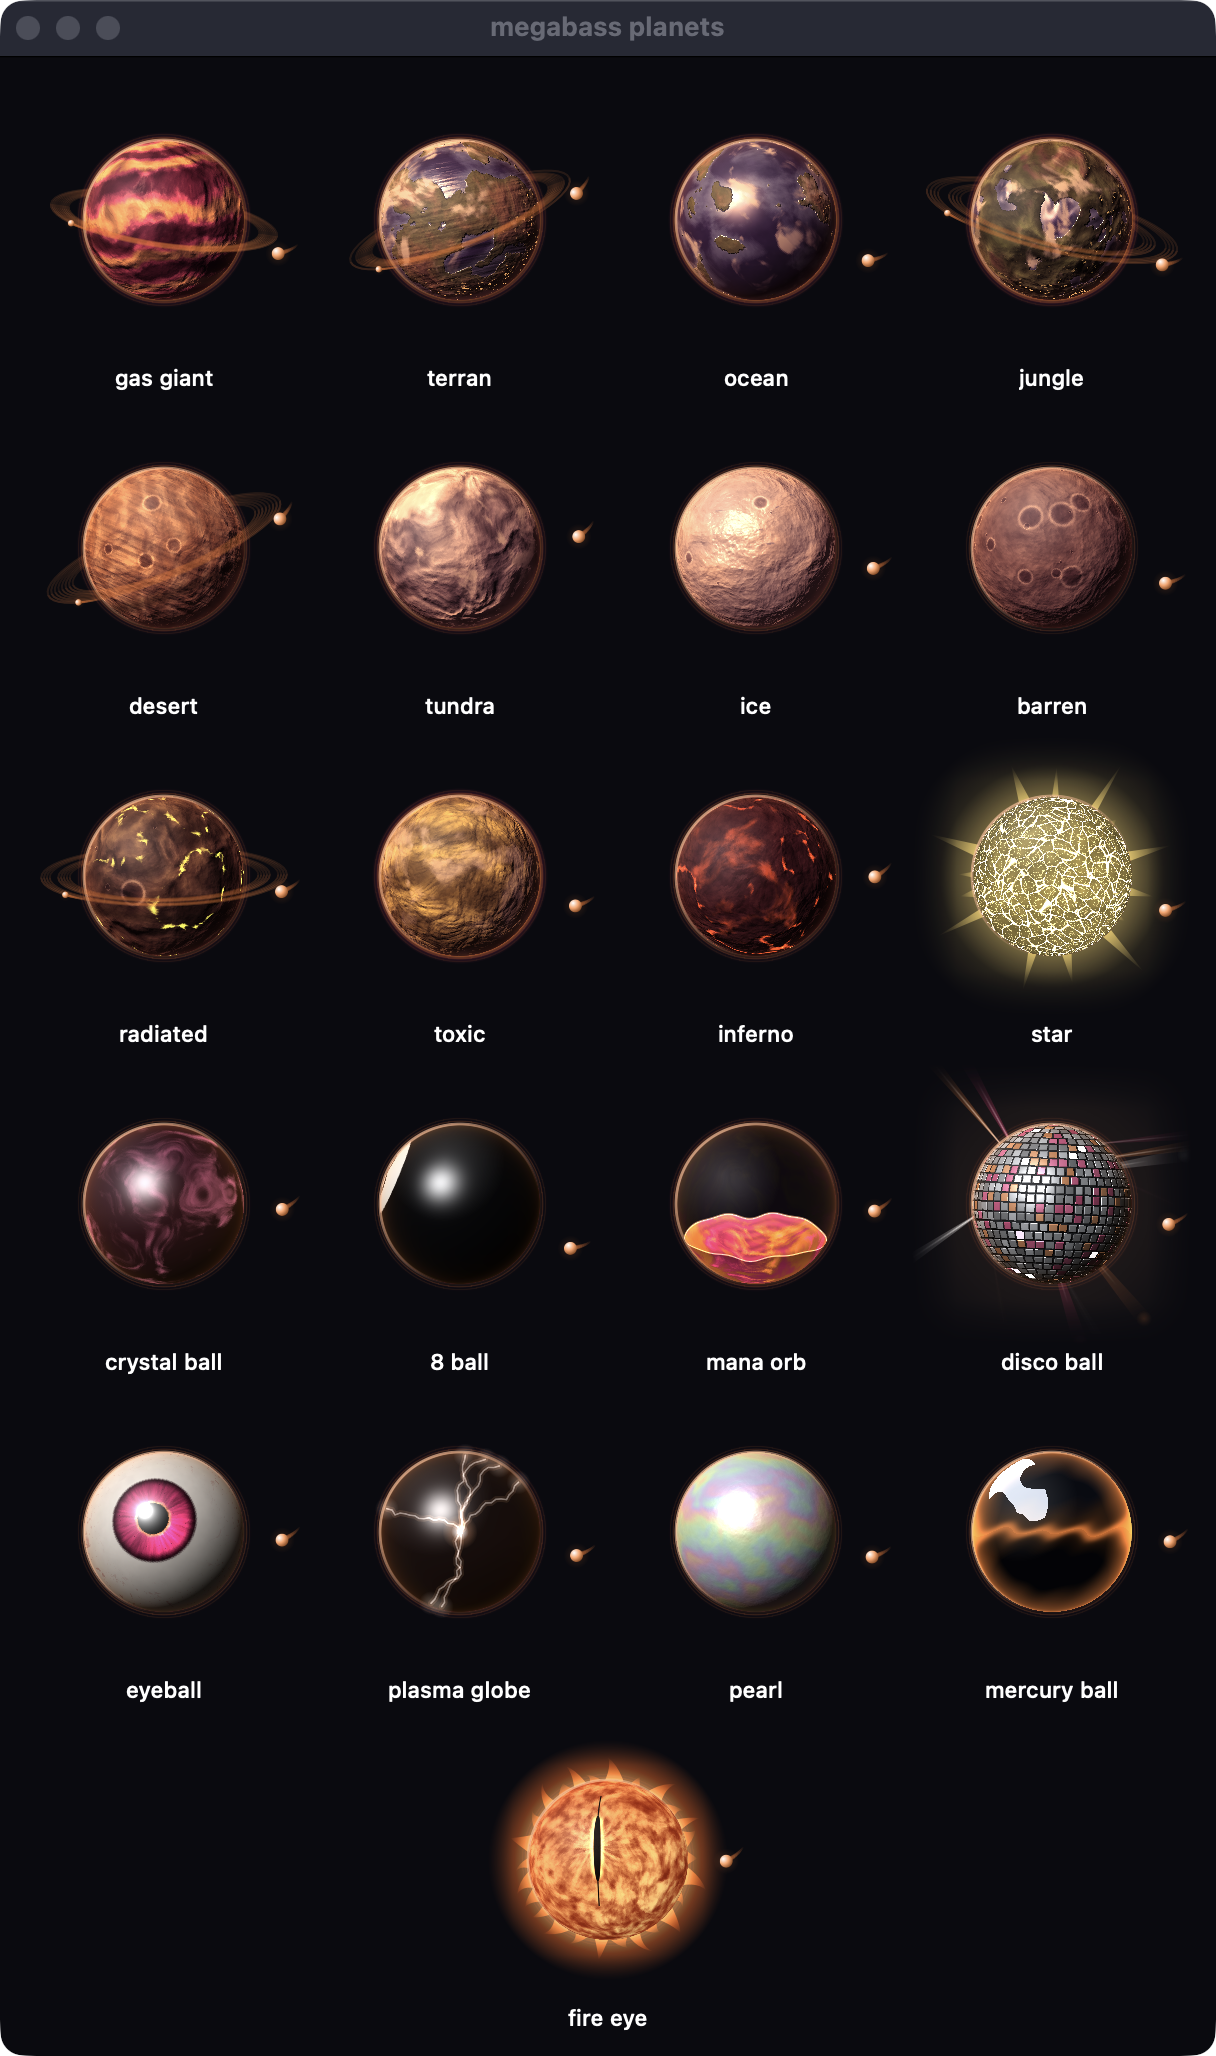
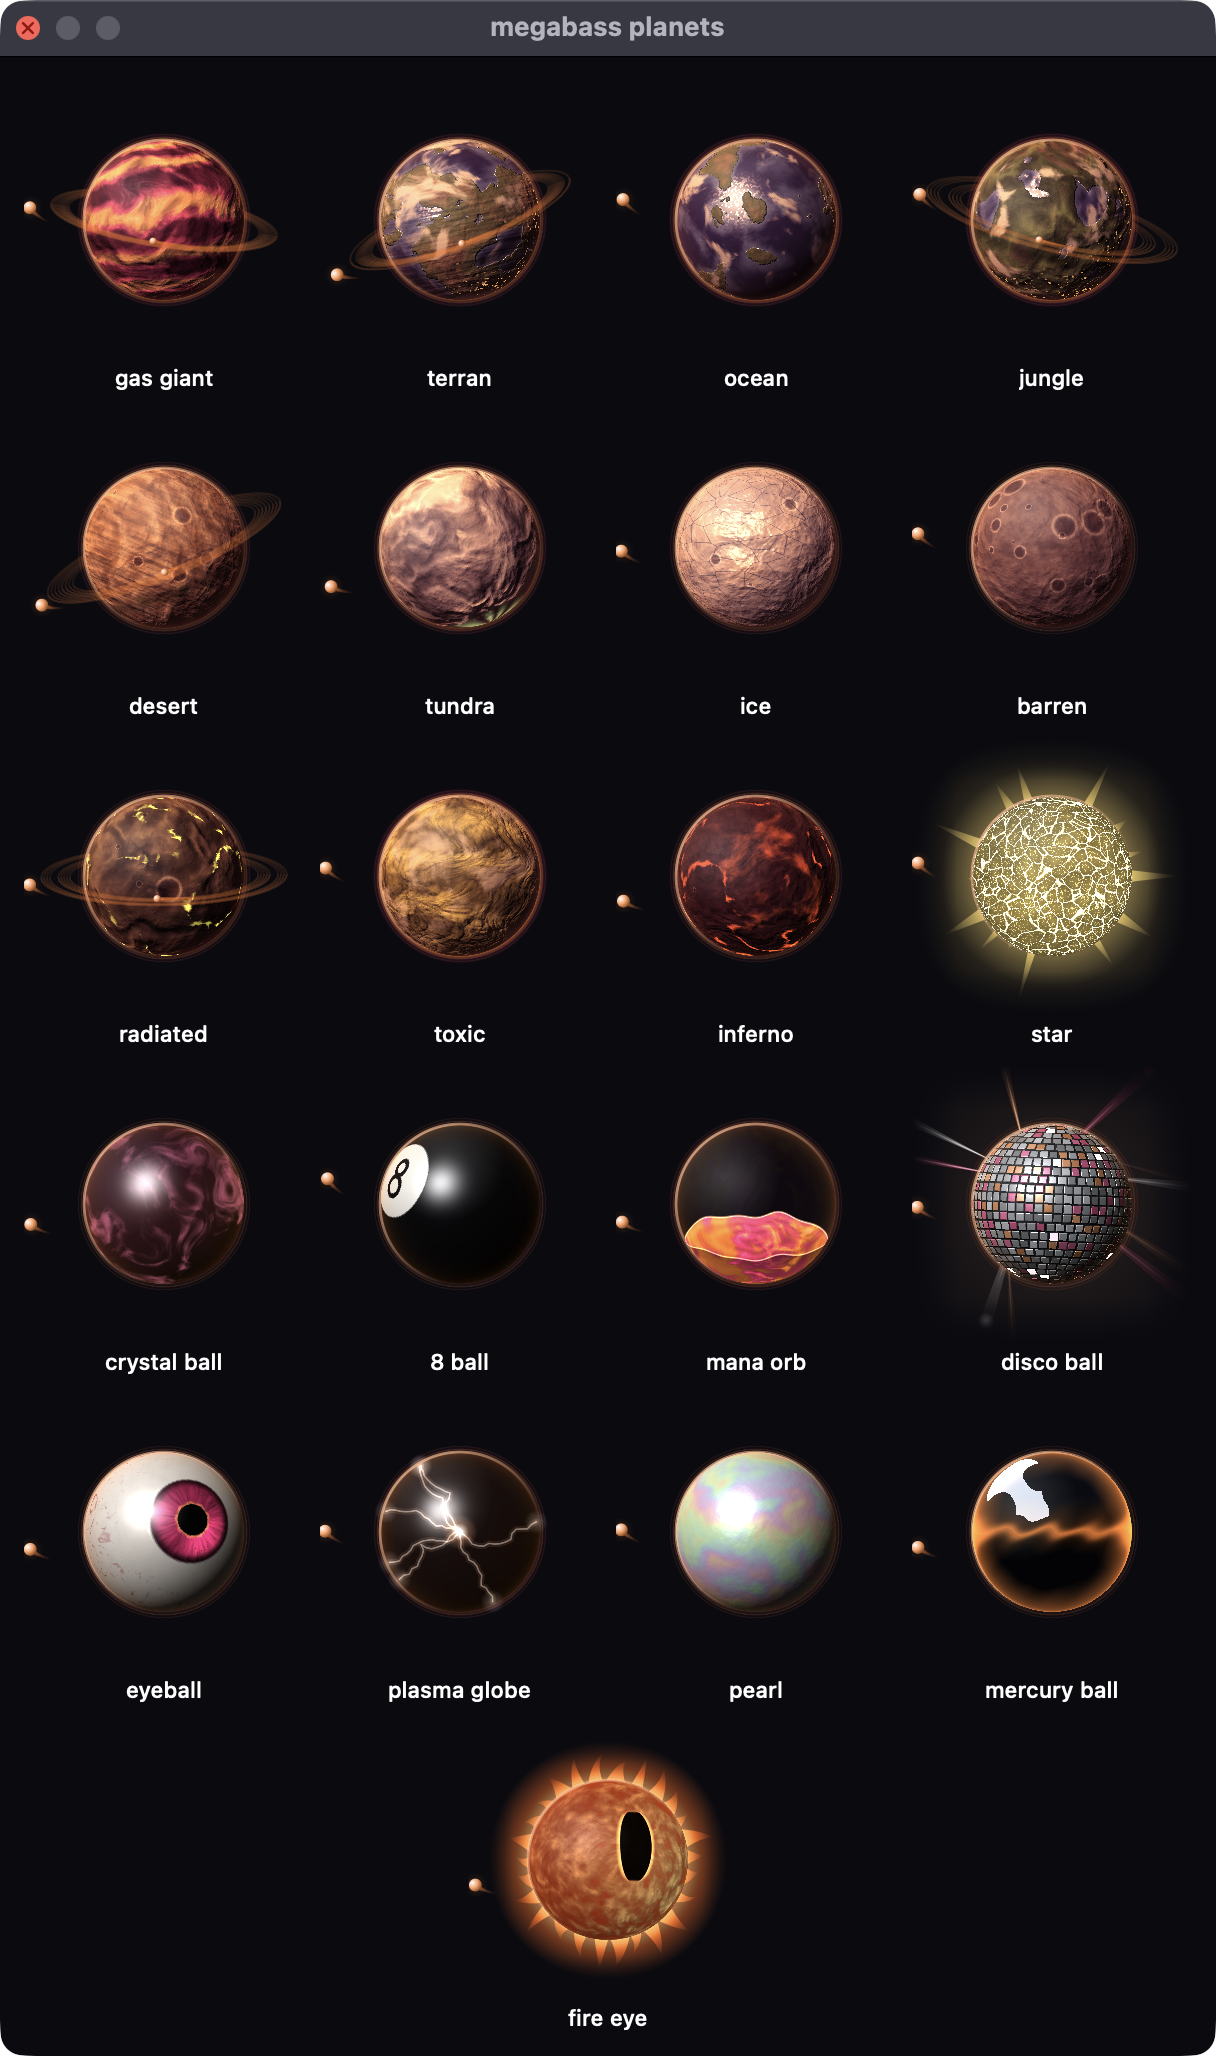
Living planets: animated layers where they fit the world
- Gas giants and toxic worlds: bands drift at their own speeds by latitude,
  swaying within a few degrees so they never shear apart.
- Ice: floes drift on dark water (a wrapping cell network); the cracks
  open wider when the music is loud.
- Inferno: lava waves run along the channels and surge on kicks.
- Stars: seams boil and breathe with the bass.
- Radiated: veins flicker in patches.
- Tundra: aurora curtains over the poles, strongest on the night side.
- Ocean, terran, jungle: sunlight glints twinkle on the water.
- Jungle: lightning flickers inside the clouds on kicks.
Cheap per pixel (integer hashes, a sine table, squared-distance cells):
the ice planet draws in ~2.9 ms against 3.25 ms before the layers.

diff --git a/Sources/MegaBass/PlanetTexture.swift b/Sources/MegaBass/PlanetTexture.swift
@@ -415,6 +415,8 @@ final class PlanetTextures {
         return tex
     }
 
+    static let sinTable: [Float] = (0..<1024).map { sin(Float($0) / 1024 * 2 * .pi) }
+
     /// Textures kept (the app shows one or two planets; the gallery shows them all).
     var capacity = 6
 
@@ -466,10 +468,49 @@ final class PlanetTextures {
         // On: the icon emits light in the palette's brightest colour (unshaded), with a halo.
         let iconLight = Self.rgb(iconColor)
         let iconBase: SIMD3<Float> = on ? iconLight + (SIMD3<Float>(repeating: 1) - iconLight) * 0.2 : SIMD3(0.62, 0.62, 0.64)
+        // Living planets: animated layers where they fit the world (wobble carries the music's pulse).
+        let kind = tex.kind
+        let flows = kind == .gasGiant || kind == .toxic, floes = kind == .ice, lava = kind == .inferno
+        let boils = star, flickers = kind == .radiated, aurora = kind == .tundra
+        let shimmer = kind == .ocean || kind == .terran || kind == .jungle, storms = kind == .jungle
+        let auroraTint = SIMD3<Float>(0.25, 1, 0.6) * 0.6 + rimTint * 0.4
+        /// sin() by table (1024 steps): the animated layers call it once per pixel per frame.
+        let sinTable = Self.sinTable
+        func fsin(_ x: Float) -> Float { sinTable[Int(x * 162.974_66) & 1023] }
+        /// Cheap integer hash to 0...1 (no trig in the hot loop).
+        func hash01(_ a: Int32, _ b: Int32, _ s: UInt32) -> Float {
+            var h = UInt32(bitPattern: a) &* 0x9E37_79B1 ^ UInt32(bitPattern: b) &* 0x85EB_CA77 ^ s
+            h ^= h >> 15; h = h &* 0x2C1B_3C6D; h ^= h >> 12; h = h &* 0x297A_2D39; h ^= h >> 15
+            return Float(h & 0xFFFF) / 65535
+        }
+        /// Distance to the nearest and second-nearest cell point; cells wrap every 16 along x.
+        /// Squared distances in the loop, one hash per cell (two coordinates from its bits).
+        func cells(_ x: Float, _ y: Float) -> (Float, Float) {
+            let ix = Int32(floor(x)), iy = Int32(floor(y))
+            var f1: Float = 81, f2: Float = 81
+            for dy in Int32(-1)...1 {
+                for dx in Int32(-1)...1 {
+                    let cx = ix + dx, cy = iy + dy
+                    var h = UInt32(bitPattern: cx & 15) &* 0x9E37_79B1 ^ UInt32(bitPattern: cy) &* 0x85EB_CA77
+                    h ^= h >> 15; h = h &* 0x2C1B_3C6D; h ^= h >> 13
+                    let px = Float(cx) + Float(h & 0xFFFF) / 65535 - x, py = Float(cy) + Float(h >> 16) / 65535 - y
+                    let d = px * px + py * py
+                    if d < f1 { f2 = f1; f1 = d } else if d < f2 { f2 = d }
+                }
+            }
+            return (f1.squareRoot(), f2.squareRoot())
+        }
         for i in 0..<(n * n) {
             guard inside[i] else { pixels[i] = 0; continue }
             let u0 = lonBase[i]
             var u = Int(u0 + shift) % W; if u < 0 { u += W }
+            // Gas bands drift at their own speeds by latitude (as real gas giants do), swaying back and
+            // forth within a few degrees so they never shear apart.
+            if flows {
+                let la = latF[i]
+                let off = fsin(la * 5.3) * 25 * fsin(tt * 0.15) + fsin(la * 11 + 1) * 8 * fsin(tt * 0.23 + 2)
+                u = ((u + Int(off)) % W + W) % W
+            }
             var uc = Int(u0 + cloudShift) % W; if uc < 0 { uc += W }
             let v = Int(latIdx[i])
             let row = v * W
@@ -479,6 +520,13 @@ final class PlanetTextures {
                 let b = Int(blurPx)
                 c = (c + tex.surface[row + (u + b / 2) % W] + tex.surface[row + (u - b / 2 + W) % W]
                        + tex.surface[row + (u + b) % W]) * 0.25
+            }
+            // Ice: floes drifting on dark water; the cracks between them open wider when the music is loud.
+            if floes {
+                let lonT = (u0 + shift) / Float(W) * 16 + tt * 0.06
+                let (f1, f2) = cells(lonT, latF[i] * 5 + sin(tt * 0.3) * 0.08)
+                let crack = smooth(0, 0.05 + 0.08 * wobble, f2 - f1)
+                c = c * (0.55 + 0.45 * crack) + SIMD3<Float>(0.04, 0.1, 0.2) * (1 - crack)
             }
             let cl = tex.clouds[row + uc]
             c = c + (SIMD3<Float>(repeating: 0.97) - c) * cl
@@ -508,7 +556,11 @@ final class PlanetTextures {
                 }
                 // Specular: glossy water and ice catch the sun; rock stays matte.
                 let gloss = tex.spec[row + u] * (1 - cl)
-                if gloss > 0.01 { out += SIMD3<Float>(repeating: pow(max(0, simd_dot(bumped, half)), 36) * 0.9 * gloss * sun) }
+                if gloss > 0.01 {
+                    // Water glints shimmer as small waves catch the sun.
+                    let twinkle: Float = shimmer && gloss > 0.5 ? (hash01(Int32(u / 3), Int32(v / 3), UInt32(tt * 8)) > 0.7 ? 1.7 : 0.75) : 1
+                    out += SIMD3<Float>(repeating: pow(max(0, simd_dot(bumped, half)), 36) * 0.9 * gloss * sun * twinkle)
+                }
                 // A wet eye: a crisp glint on the smooth cornea.
                 if eye { out += SIMD3<Float>(repeating: pow(max(0, simd_dot(nrm, half)), 320) * 1.3 * sun) }
                 // Emissive: lava and radiation glow everywhere; city lights only at night.
@@ -528,8 +580,33 @@ final class PlanetTextures {
                 let glum = simd_dot(emitted, SIMD3<Float>(0.299, 0.587, 0.114))
                 emitted = emitted + (hi * glum * 1.2 - emitted) * 0.3
             }
+            // Lava waves run along the channels and surge on kicks; a star's seams boil and breathe with the
+            // bass; radiation veins flicker in patches.
+            if lava {
+                let phase: Float = tt * 2.2 + Float(u) * 0.05 + Float(v) * 0.08
+                let wave: Float = 0.5 + 0.5 * fsin(phase)
+                emitted *= 0.7 + 0.45 * wave + 0.9 * wobble
+            }
+            if boils {
+                let phase: Float = tt * 3 + tex.height[row + u] * 30
+                emitted *= 0.8 + 0.25 * fsin(phase) + 0.5 * wobble
+            }
+            if flickers { emitted *= hash01(Int32(u / 24), Int32(v / 24), UInt32(tt * 9)) > 0.35 ? 1.25 : 0.55 }
+            // Tundra: aurora curtains over the poles, strongest on the night side, livelier with the music.
+            if aurora {
+                let polar = smooth(0.95, 1.3, abs(latF[i]))
+                if polar > 0 {
+                    let lonA = (u0 + shift) / Float(W) * 2 * .pi
+                    let curtain = 0.5 + 0.5 * fsin(lonA * 9 + tt * 1.3 + fsin(lonA * 3 + tt * 0.7) * 2)
+                    emitted += auroraTint * polar * curtain * (1 - max(0, simd_dot(nrm, L))) * (0.6 + wobble)
+                }
+            }
+            // Jungle storms: lightning flickers inside the clouds on kicks.
+            if storms && cl > 0.3 && wobble > 0.35 && hash01(Int32(u / 30), Int32(v / 30), UInt32(tt * 12)) > 0.93 {
+                emitted += SIMD3<Float>(0.8, 0.85, 1) * cl * (wobble - 0.3) * 2.5
+            }
             // The fire flickers in patches, and burns hotter while the eye is focused (wobble = dilation).
-            if fire { emitted *= (0.8 + 0.3 * sin(tt * 7 + tex.height[row + u] * 40)) * (0.85 + 0.4 * (1 - wobble)) }
+            if fire { emitted *= (0.8 + 0.3 * fsin(tt * 7 + tex.height[row + u] * 40)) * (0.85 + 0.4 * (1 - wobble)) }
             out += emitted
             if mercury {
                 // Liquid metal: the view reflected off a rippling surface (ripples swell with the bass).

diff --git a/README.md b/README.md
@@ -31,7 +31,10 @@ The power button is a small procedural world, hashed from the station (or the Sp
 12 types (gas giant, terran, ocean, jungle, desert, tundra, ice, barren, radiated, toxic, inferno,
 star), and about one in four songs gets a curio instead: crystal ball, 8 ball, mana orb (filled to
 the song's loudness), disco ball (beams through a haze), eyeball (it looks at your pointer), plasma globe, pearl, mercury ball or fire eye; fractal surfaces with bump and specular lighting, clouds, city lights, rings and moons that
-react to the music. It spins faster as the song grows more intense, with a heavy body's inertia,
+react to the music, and they're alive: gas bands drift by latitude, ice floes drift on dark water
+(the cracks open when it's loud), lava pulses along its channels, stars boil, radiation veins
+flicker, tundras show aurora at night, sunlight glints on oceans, and jungle clouds flash with
+lightning on kicks. It spins faster as the song grows more intense, with a heavy body's inertia,
 and headbangs in half time: fully down on beats 1 and 3, at the tempo `TempoTracker` hears.
 Prominent voices (a sung or lead note) launch new satellites off its face on tiny rockets (the spent
 stage falls back), up to 10, orbiting at a height set by the note, on the same plane as its rings; when their time is up they fall back and
